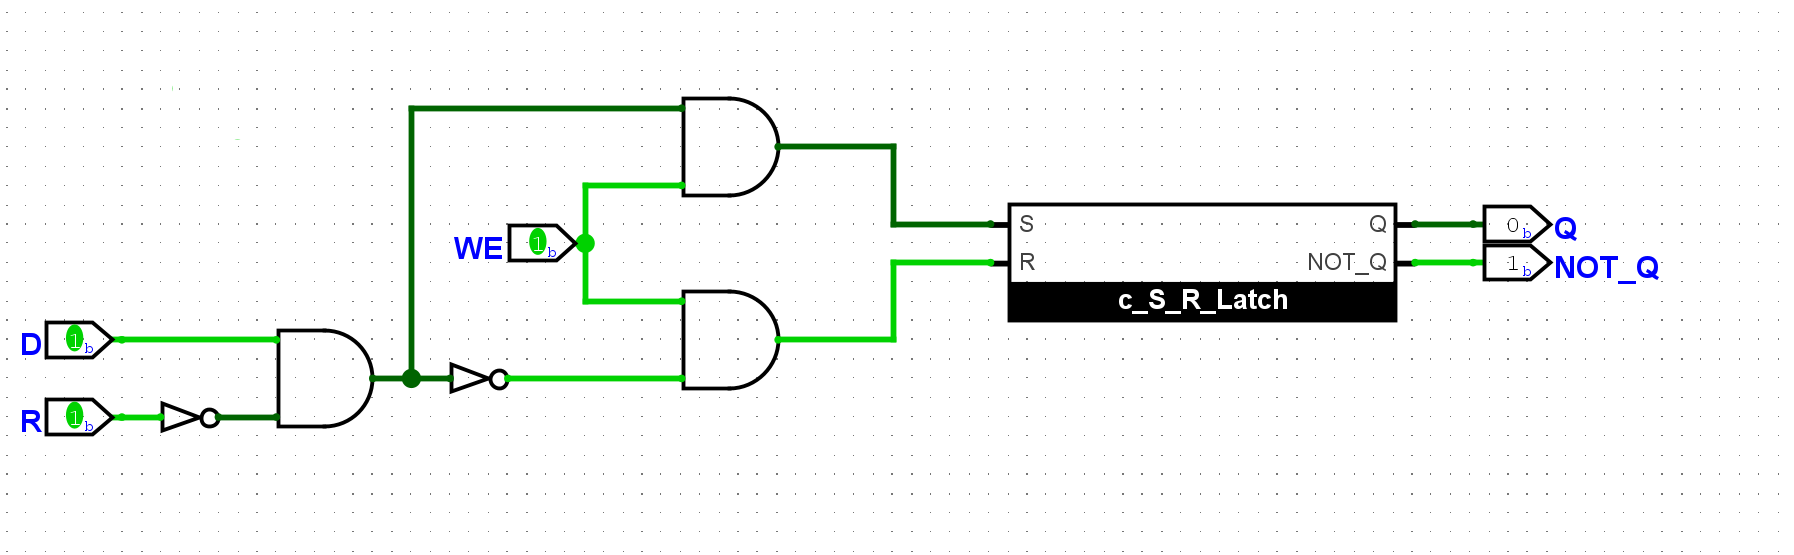
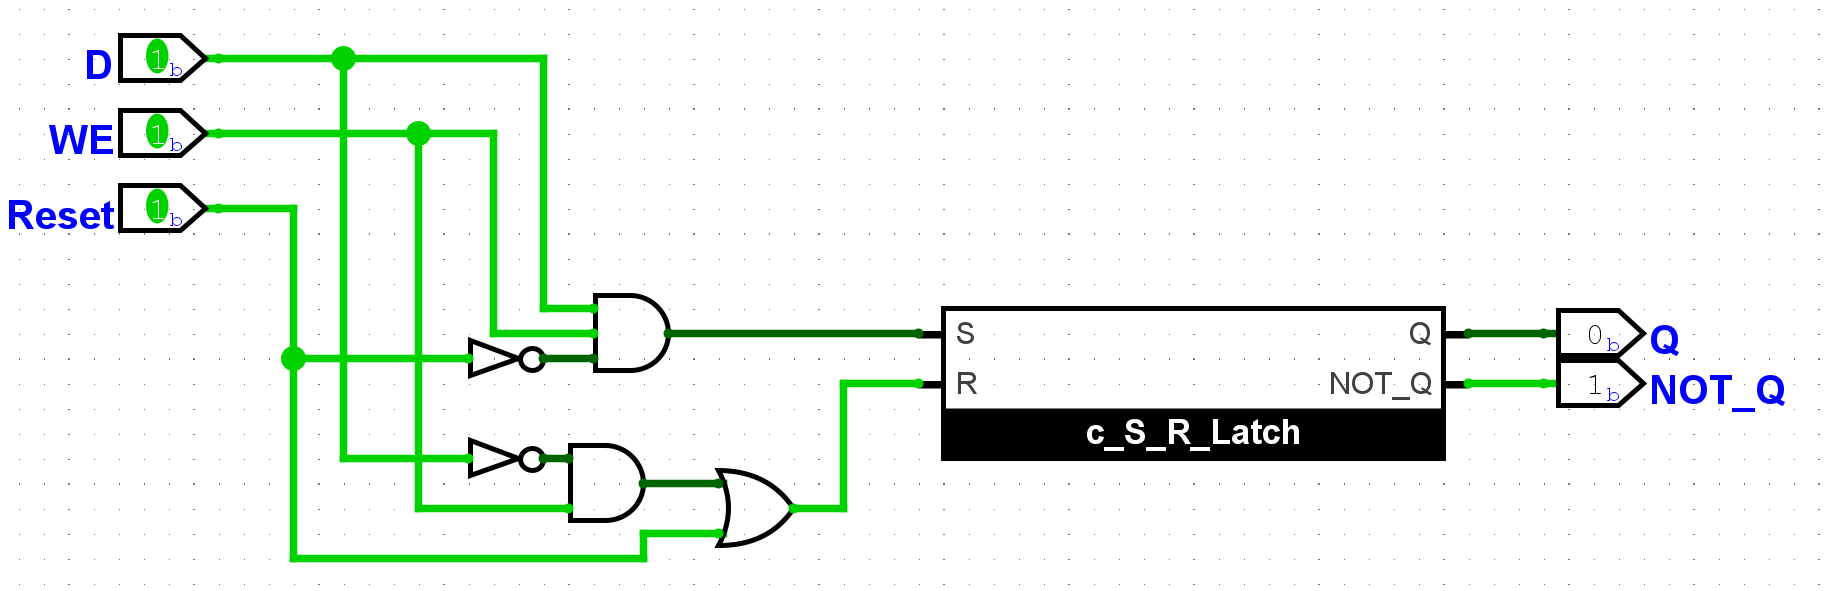
Site updated: 2026-01-13 22:48:01

Changed region(s): [[0.0, 0.0306, 0.9677, 0.9802], [0.3746, 0.245, 0.4994, 0.3982]]

diff --git a/2026/01/05/一生一芯F3/index.html b/2026/01/05/一生一芯F3/index.html
@@ -45,8 +45,13 @@
 <meta property="og:image" content="http://example.com/images/%E4%B8%80%E7%94%9F%E4%B8%80%E8%8A%AFF3/SR%E9%94%81%E5%AD%98%E5%99%A8.png">
 <meta property="og:image" content="http://example.com/images/%E4%B8%80%E7%94%9F%E4%B8%80%E8%8A%AFF3/D%E9%94%81%E5%AD%98%E5%99%A8.png">
 <meta property="og:image" content="http://example.com/images/%E4%B8%80%E7%94%9F%E4%B8%80%E8%8A%AFF3/%E5%B8%A6%E5%A4%8D%E4%BD%8D%E7%9A%84D%E9%94%81%E5%AD%98%E5%99%A8.png">
+<meta property="og:image" content="http://example.com/images/%E4%B8%80%E7%94%9F%E4%B8%80%E8%8A%AFF3/%E7%94%A8D%E9%94%81%E5%AD%98%E5%99%A8%E5%AE%9E%E7%8E%B0%E4%BD%8D%E7%BF%BB%E8%BD%AC%E5%8A%9F%E8%83%BD.png">
+<meta property="og:image" content="http://example.com/images/%E4%B8%80%E7%94%9F%E4%B8%80%E8%8A%AFF3/D%E8%A7%A6%E5%8F%91%E5%99%A8.png">
+<meta property="og:image" content="http://example.com/images/%E4%B8%80%E7%94%9F%E4%B8%80%E8%8A%AFF3/%E5%B8%A6%E5%A4%8D%E4%BD%8D%E5%8A%9F%E8%83%BD%E7%9A%84D%E8%A7%A6%E5%8F%91%E5%99%A8.png">
+<meta property="og:image" content="http://example.com/images/%E4%B8%80%E7%94%9F%E4%B8%80%E8%8A%AFF3/%E7%94%A8D%E8%A7%A6%E5%8F%91%E5%99%A8%E5%AE%9E%E7%8E%B0%E4%BD%8D%E7%BF%BB%E8%BD%AC%E5%8A%9F%E8%83%BD.png">
+<meta property="og:image" content="http://example.com/images/%E4%B8%80%E7%94%9F%E4%B8%80%E8%8A%AFF3/%E5%B8%A6%E4%BD%BF%E8%83%BD%E7%AB%AF%E7%9A%84D%E8%A7%A6%E5%8F%91%E5%99%A8.png">
 <meta property="article:published_time" content="2026-01-05T07:26:02.000Z">
-<meta property="article:modified_time" content="2026-01-12T15:05:46.134Z">
+<meta property="article:modified_time" content="2026-01-13T14:45:54.682Z">
 <meta property="article:author" content="Nyuudoukumo">
 <meta name="twitter:card" content="summary">
 <meta name="twitter:image" content="http://example.com/images/%E4%B8%80%E7%94%9F%E4%B8%80%E8%8A%AFF3/%E5%88%86%E6%9E%90%E9%97%A8%E7%94%B5%E8%B7%AF.png">
@@ -267,7 +272,7 @@ mjx-container[display="true"] + br {
     
     
       <div id="toc">
-        <ol class="toc"><li class="toc-item toc-level-2"><a class="toc-link" href="#%E5%88%86%E6%9E%90%E9%97%A8%E7%94%B5%E8%B7%AF"><span class="toc-number">1.</span> <span class="toc-text">分析门电路</span></a></li><li class="toc-item toc-level-2"><a class="toc-link" href="#%E6%88%96%E9%97%A8%E7%9A%84%E6%99%B6%E4%BD%93%E7%AE%A1%E7%BB%93%E6%9E%84"><span class="toc-number">2.</span> <span class="toc-text">或门的晶体管结构</span></a></li><li class="toc-item toc-level-2"><a class="toc-link" href="#%E5%AF%B9%E6%AF%94%E4%B8%A4%E7%A7%8D%E5%AE%9E%E7%8E%B0%E7%9A%84%E6%99%B6%E4%BD%93%E7%AE%A1%E6%89%80%E9%9C%80%E8%A6%81%E7%9A%84%E6%95%B0%E9%87%8F"><span class="toc-number">3.</span> <span class="toc-text">对比两种实现的晶体管所需要的数量</span></a></li><li class="toc-item toc-level-2"><a class="toc-link" href="#%E7%94%A8%E5%85%B6%E4%BB%96%E9%97%A8%E7%94%B5%E8%B7%AF%E6%90%AD%E5%BB%BA%E5%BC%82%E6%88%96%E9%97%A8"><span class="toc-number">4.</span> <span class="toc-text">用其他门电路搭建异或门</span></a></li><li class="toc-item toc-level-2"><a class="toc-link" href="#%E8%AE%BE%E8%AE%A1%E5%90%8C%E6%88%96%E9%97%A8"><span class="toc-number">5.</span> <span class="toc-text">设计同或门</span></a></li><li class="toc-item toc-level-2"><a class="toc-link" href="#%E6%90%AD%E5%BB%BA2-4%E8%AF%91%E7%A0%81%E5%99%A8"><span class="toc-number">6.</span> <span class="toc-text">搭建2-4译码器</span></a></li><li class="toc-item toc-level-2"><a class="toc-link" href="#Logisim%E4%B8%AD%E7%9A%84%E5%AD%90%E7%94%B5%E8%B7%AF%E5%8A%9F%E8%83%BD"><span class="toc-number">7.</span> <span class="toc-text">Logisim中的子电路功能</span></a></li><li class="toc-item toc-level-2"><a class="toc-link" href="#%E8%AF%91%E7%A0%81%E5%99%A8%E7%9A%84%E6%8B%93%E5%B1%95"><span class="toc-number">8.</span> <span class="toc-text">译码器的拓展</span></a></li><li class="toc-item toc-level-2"><a class="toc-link" href="#%E6%90%AD%E5%BB%BA%E4%B8%83%E6%AE%B5%E6%95%B0%E7%A0%81%E7%AE%A1%E8%AF%91%E7%A0%81%E5%99%A8"><span class="toc-number">9.</span> <span class="toc-text">搭建七段数码管译码器</span></a></li><li class="toc-item toc-level-2"><a class="toc-link" href="#%E6%90%AD%E5%BB%BA%E4%B8%83%E6%AE%B5%E6%95%B0%E7%A0%81%E7%AE%A1%E8%AF%91%E7%A0%81%E5%99%A8-2"><span class="toc-number">10.</span> <span class="toc-text">搭建七段数码管译码器(2)</span></a></li><li class="toc-item toc-level-2"><a class="toc-link" href="#%E6%90%AD%E5%BB%BA%E7%BC%96%E7%A0%81%E5%99%A8"><span class="toc-number">11.</span> <span class="toc-text">搭建编码器</span></a></li><li class="toc-item toc-level-2"><a class="toc-link" href="#%E6%90%AD%E5%BB%BA4-2%E4%BC%98%E5%85%88%E7%BC%96%E7%A0%81%E5%99%A8"><span class="toc-number">12.</span> <span class="toc-text">搭建4-2优先编码器</span></a></li><li class="toc-item toc-level-2"><a class="toc-link" href="#%E6%90%AD%E5%BB%BA1%E4%BD%8D2%E9%80%891%E9%80%89%E6%8B%A9%E5%99%A8"><span class="toc-number">13.</span> <span class="toc-text">搭建1位2选1选择器</span></a></li><li class="toc-item toc-level-2"><a class="toc-link" href="#%E6%90%AD%E5%BB%BA3%E4%BD%8D4%E9%80%891%E9%80%89%E6%8B%A9%E5%99%A8"><span class="toc-number">14.</span> <span class="toc-text">搭建3位4选1选择器</span></a></li><li class="toc-item toc-level-2"><a class="toc-link" href="#%E6%90%AD%E5%BB%BA%E5%8F%AF%E5%88%87%E6%8D%A2%E8%BF%9B%E4%BD%8D%E8%AE%A1%E6%95%B0%E5%88%B6%E7%9A%84%E4%B8%83%E6%AE%B5%E6%95%B0%E7%A0%81%E7%AE%A1"><span class="toc-number">15.</span> <span class="toc-text">搭建可切换进位计数制的七段数码管</span></a></li><li class="toc-item toc-level-2"><a class="toc-link" href="#%E6%90%AD%E5%BB%BA%E6%AF%94%E8%BE%83%E5%99%A8"><span class="toc-number">16.</span> <span class="toc-text">搭建比较器</span></a></li><li class="toc-item toc-level-2"><a class="toc-link" href="#%E6%90%AD%E5%BB%BA1%E4%BD%8D%E5%85%A8%E5%8A%A0%E5%99%A8"><span class="toc-number">17.</span> <span class="toc-text">搭建1位全加器</span></a></li><li class="toc-item toc-level-2"><a class="toc-link" href="#%E6%90%AD%E5%BB%BA4%E4%BD%8D%E5%8A%A0%E6%B3%95%E5%99%A8"><span class="toc-number">18.</span> <span class="toc-text">搭建4位加法器</span></a></li><li class="toc-item toc-level-2"><a class="toc-link" href="#%E6%90%AD%E5%BB%BA4%E4%BD%8D%E5%87%8F%E6%B3%95%E5%99%A8"><span class="toc-number">19.</span> <span class="toc-text">搭建4位减法器</span></a></li><li class="toc-item toc-level-2"><a class="toc-link" href="#%E6%90%AD%E5%BB%BA4%E4%BD%8D%E5%8E%9F%E7%A0%81%E5%8A%A0%E6%B3%95%E5%99%A8"><span class="toc-number">20.</span> <span class="toc-text">搭建4位原码加法器</span></a></li><li class="toc-item toc-level-2"><a class="toc-link" href="#%E6%90%AD%E5%BB%BA4%E4%BD%8D%E5%8F%8D%E7%A0%81%E5%8A%A0%E6%B3%95%E5%99%A8"><span class="toc-number">21.</span> <span class="toc-text">搭建4位反码加法器</span></a></li><li class="toc-item toc-level-2"><a class="toc-link" href="#%E6%A3%80%E6%B5%8B%E8%A1%A5%E7%A0%81%E5%8A%A0%E6%B3%95%E6%98%AF%E5%90%A6%E5%8F%91%E7%94%9F%E6%BA%A2%E5%87%BA"><span class="toc-number">22.</span> <span class="toc-text">检测补码加法是否发生溢出</span></a></li><li class="toc-item toc-level-2"><a class="toc-link" href="#%E6%90%AD%E5%BB%BASR%E9%94%81%E5%AD%98%E5%99%A8"><span class="toc-number">23.</span> <span class="toc-text">搭建SR锁存器</span></a></li><li class="toc-item toc-level-2"><a class="toc-link" href="#%E5%88%86%E6%9E%90D%E9%94%81%E5%AD%98%E5%99%A8%E7%9A%84%E8%A1%8C%E4%B8%BA"><span class="toc-number">24.</span> <span class="toc-text">分析D锁存器的行为</span></a></li><li class="toc-item toc-level-2"><a class="toc-link" href="#%E6%90%AD%E5%BB%BAD%E9%94%81%E5%AD%98%E5%99%A8"><span class="toc-number">25.</span> <span class="toc-text">搭建D锁存器</span></a></li><li class="toc-item toc-level-2"><a class="toc-link" href="#%E6%90%AD%E5%BB%BA%E5%B8%A6%E5%A4%8D%E4%BD%8D%E5%8A%9F%E8%83%BD%E7%9A%84D%E9%94%81%E5%AD%98%E5%99%A8"><span class="toc-number">26.</span> <span class="toc-text">搭建带复位功能的D锁存器</span></a></li></ol>
+        <ol class="toc"><li class="toc-item toc-level-2"><a class="toc-link" href="#%E5%88%86%E6%9E%90%E9%97%A8%E7%94%B5%E8%B7%AF"><span class="toc-number">1.</span> <span class="toc-text">分析门电路</span></a></li><li class="toc-item toc-level-2"><a class="toc-link" href="#%E6%88%96%E9%97%A8%E7%9A%84%E6%99%B6%E4%BD%93%E7%AE%A1%E7%BB%93%E6%9E%84"><span class="toc-number">2.</span> <span class="toc-text">或门的晶体管结构</span></a></li><li class="toc-item toc-level-2"><a class="toc-link" href="#%E5%AF%B9%E6%AF%94%E4%B8%A4%E7%A7%8D%E5%AE%9E%E7%8E%B0%E7%9A%84%E6%99%B6%E4%BD%93%E7%AE%A1%E6%89%80%E9%9C%80%E8%A6%81%E7%9A%84%E6%95%B0%E9%87%8F"><span class="toc-number">3.</span> <span class="toc-text">对比两种实现的晶体管所需要的数量</span></a></li><li class="toc-item toc-level-2"><a class="toc-link" href="#%E7%94%A8%E5%85%B6%E4%BB%96%E9%97%A8%E7%94%B5%E8%B7%AF%E6%90%AD%E5%BB%BA%E5%BC%82%E6%88%96%E9%97%A8"><span class="toc-number">4.</span> <span class="toc-text">用其他门电路搭建异或门</span></a></li><li class="toc-item toc-level-2"><a class="toc-link" href="#%E8%AE%BE%E8%AE%A1%E5%90%8C%E6%88%96%E9%97%A8"><span class="toc-number">5.</span> <span class="toc-text">设计同或门</span></a></li><li class="toc-item toc-level-2"><a class="toc-link" href="#%E6%90%AD%E5%BB%BA2-4%E8%AF%91%E7%A0%81%E5%99%A8"><span class="toc-number">6.</span> <span class="toc-text">搭建2-4译码器</span></a></li><li class="toc-item toc-level-2"><a class="toc-link" href="#Logisim%E4%B8%AD%E7%9A%84%E5%AD%90%E7%94%B5%E8%B7%AF%E5%8A%9F%E8%83%BD"><span class="toc-number">7.</span> <span class="toc-text">Logisim中的子电路功能</span></a></li><li class="toc-item toc-level-2"><a class="toc-link" href="#%E8%AF%91%E7%A0%81%E5%99%A8%E7%9A%84%E6%8B%93%E5%B1%95"><span class="toc-number">8.</span> <span class="toc-text">译码器的拓展</span></a></li><li class="toc-item toc-level-2"><a class="toc-link" href="#%E6%90%AD%E5%BB%BA%E4%B8%83%E6%AE%B5%E6%95%B0%E7%A0%81%E7%AE%A1%E8%AF%91%E7%A0%81%E5%99%A8"><span class="toc-number">9.</span> <span class="toc-text">搭建七段数码管译码器</span></a></li><li class="toc-item toc-level-2"><a class="toc-link" href="#%E6%90%AD%E5%BB%BA%E4%B8%83%E6%AE%B5%E6%95%B0%E7%A0%81%E7%AE%A1%E8%AF%91%E7%A0%81%E5%99%A8-2"><span class="toc-number">10.</span> <span class="toc-text">搭建七段数码管译码器(2)</span></a></li><li class="toc-item toc-level-2"><a class="toc-link" href="#%E6%90%AD%E5%BB%BA%E7%BC%96%E7%A0%81%E5%99%A8"><span class="toc-number">11.</span> <span class="toc-text">搭建编码器</span></a></li><li class="toc-item toc-level-2"><a class="toc-link" href="#%E6%90%AD%E5%BB%BA4-2%E4%BC%98%E5%85%88%E7%BC%96%E7%A0%81%E5%99%A8"><span class="toc-number">12.</span> <span class="toc-text">搭建4-2优先编码器</span></a></li><li class="toc-item toc-level-2"><a class="toc-link" href="#%E6%90%AD%E5%BB%BA1%E4%BD%8D2%E9%80%891%E9%80%89%E6%8B%A9%E5%99%A8"><span class="toc-number">13.</span> <span class="toc-text">搭建1位2选1选择器</span></a></li><li class="toc-item toc-level-2"><a class="toc-link" href="#%E6%90%AD%E5%BB%BA3%E4%BD%8D4%E9%80%891%E9%80%89%E6%8B%A9%E5%99%A8"><span class="toc-number">14.</span> <span class="toc-text">搭建3位4选1选择器</span></a></li><li class="toc-item toc-level-2"><a class="toc-link" href="#%E6%90%AD%E5%BB%BA%E5%8F%AF%E5%88%87%E6%8D%A2%E8%BF%9B%E4%BD%8D%E8%AE%A1%E6%95%B0%E5%88%B6%E7%9A%84%E4%B8%83%E6%AE%B5%E6%95%B0%E7%A0%81%E7%AE%A1"><span class="toc-number">15.</span> <span class="toc-text">搭建可切换进位计数制的七段数码管</span></a></li><li class="toc-item toc-level-2"><a class="toc-link" href="#%E6%90%AD%E5%BB%BA%E6%AF%94%E8%BE%83%E5%99%A8"><span class="toc-number">16.</span> <span class="toc-text">搭建比较器</span></a></li><li class="toc-item toc-level-2"><a class="toc-link" href="#%E6%90%AD%E5%BB%BA1%E4%BD%8D%E5%85%A8%E5%8A%A0%E5%99%A8"><span class="toc-number">17.</span> <span class="toc-text">搭建1位全加器</span></a></li><li class="toc-item toc-level-2"><a class="toc-link" href="#%E6%90%AD%E5%BB%BA4%E4%BD%8D%E5%8A%A0%E6%B3%95%E5%99%A8"><span class="toc-number">18.</span> <span class="toc-text">搭建4位加法器</span></a></li><li class="toc-item toc-level-2"><a class="toc-link" href="#%E6%90%AD%E5%BB%BA4%E4%BD%8D%E5%87%8F%E6%B3%95%E5%99%A8"><span class="toc-number">19.</span> <span class="toc-text">搭建4位减法器</span></a></li><li class="toc-item toc-level-2"><a class="toc-link" href="#%E6%90%AD%E5%BB%BA4%E4%BD%8D%E5%8E%9F%E7%A0%81%E5%8A%A0%E6%B3%95%E5%99%A8"><span class="toc-number">20.</span> <span class="toc-text">搭建4位原码加法器</span></a></li><li class="toc-item toc-level-2"><a class="toc-link" href="#%E6%90%AD%E5%BB%BA4%E4%BD%8D%E5%8F%8D%E7%A0%81%E5%8A%A0%E6%B3%95%E5%99%A8"><span class="toc-number">21.</span> <span class="toc-text">搭建4位反码加法器</span></a></li><li class="toc-item toc-level-2"><a class="toc-link" href="#%E6%A3%80%E6%B5%8B%E8%A1%A5%E7%A0%81%E5%8A%A0%E6%B3%95%E6%98%AF%E5%90%A6%E5%8F%91%E7%94%9F%E6%BA%A2%E5%87%BA"><span class="toc-number">22.</span> <span class="toc-text">检测补码加法是否发生溢出</span></a></li><li class="toc-item toc-level-2"><a class="toc-link" href="#%E6%90%AD%E5%BB%BASR%E9%94%81%E5%AD%98%E5%99%A8"><span class="toc-number">23.</span> <span class="toc-text">搭建SR锁存器</span></a></li><li class="toc-item toc-level-2"><a class="toc-link" href="#%E5%88%86%E6%9E%90D%E9%94%81%E5%AD%98%E5%99%A8%E7%9A%84%E8%A1%8C%E4%B8%BA"><span class="toc-number">24.</span> <span class="toc-text">分析D锁存器的行为</span></a></li><li class="toc-item toc-level-2"><a class="toc-link" href="#%E6%90%AD%E5%BB%BAD%E9%94%81%E5%AD%98%E5%99%A8"><span class="toc-number">25.</span> <span class="toc-text">搭建D锁存器</span></a></li><li class="toc-item toc-level-2"><a class="toc-link" href="#%E6%90%AD%E5%BB%BA%E5%B8%A6%E5%A4%8D%E4%BD%8D%E5%8A%9F%E8%83%BD%E7%9A%84D%E9%94%81%E5%AD%98%E5%99%A8"><span class="toc-number">26.</span> <span class="toc-text">搭建带复位功能的D锁存器</span></a></li><li class="toc-item toc-level-2"><a class="toc-link" href="#%E7%94%A8D%E9%94%81%E5%AD%98%E5%99%A8%E5%AE%9E%E7%8E%B0%E4%BD%8D%E7%BF%BB%E8%BD%AC%E5%8A%9F%E8%83%BD"><span class="toc-number">27.</span> <span class="toc-text">用D锁存器实现位翻转功能</span></a></li><li class="toc-item toc-level-2"><a class="toc-link" href="#%E6%90%AD%E5%BB%BAD%E8%A7%A6%E5%8F%91%E5%99%A8"><span class="toc-number">28.</span> <span class="toc-text">搭建D触发器</span></a></li><li class="toc-item toc-level-2"><a class="toc-link" href="#%E6%90%AD%E5%BB%BA%E5%B8%A6%E5%A4%8D%E4%BD%8D%E5%8A%9F%E8%83%BD%E7%9A%84D%E8%A7%A6%E5%8F%91%E5%99%A8"><span class="toc-number">29.</span> <span class="toc-text">搭建带复位功能的D触发器</span></a></li><li class="toc-item toc-level-2"><a class="toc-link" href="#%E7%94%A8D%E8%A7%A6%E5%8F%91%E5%99%A8%E5%AE%9E%E7%8E%B0%E4%BD%8D%E7%BF%BB%E8%BD%AC%E5%8A%9F%E8%83%BD"><span class="toc-number">30.</span> <span class="toc-text">用D触发器实现位翻转功能</span></a></li><li class="toc-item toc-level-2"><a class="toc-link" href="#%E6%90%AD%E5%BB%BA%E5%B8%A6%E4%BD%BF%E8%83%BD%E7%AB%AF%E7%9A%84D%E8%A7%A6%E5%8F%91%E5%99%A8"><span class="toc-number">31.</span> <span class="toc-text">搭建带使能端的D触发器</span></a></li></ol>
       </div>
     
   </span>
@@ -1017,7 +1022,124 @@ e|   |c
 <div class="callout-title-inner">题目</div>
 </div>
 <div class="callout-content"><p>尝试为D锁存器添加一个用于复位的输入端和复位功能. 当复位信号有效时, D锁存器中存放的值将变为<code>0</code>.</p>
-</div></div><p><img src="/images/%E4%B8%80%E7%94%9F%E4%B8%80%E8%8A%AFF3/%E5%B8%A6%E5%A4%8D%E4%BD%8D%E7%9A%84D%E9%94%81%E5%AD%98%E5%99%A8.png" alt="带复位的D锁存器.png"></p>
+</div></div><p>复位信号<code>Reset</code>，输入<code>D</code>，使能端<code>WE</code>，以及<code>S</code>、<code>R</code>的真值表如下所示：</p>
+<table>
+<thead>
+<tr>
+<th>Reset</th>
+<th>D</th>
+<th>WE</th>
+<th></th>
+<th>S</th>
+<th>R</th>
+</tr>
+</thead>
+<tbody>
+<tr>
+<td>0</td>
+<td>0</td>
+<td>0</td>
+<td></td>
+<td>0</td>
+<td>0</td>
+</tr>
+<tr>
+<td>0</td>
+<td>0</td>
+<td>1</td>
+<td></td>
+<td>0</td>
+<td>1</td>
+</tr>
+<tr>
+<td>0</td>
+<td>1</td>
+<td>0</td>
+<td></td>
+<td>0</td>
+<td>0</td>
+</tr>
+<tr>
+<td>0</td>
+<td>1</td>
+<td>1</td>
+<td></td>
+<td>1</td>
+<td>0</td>
+</tr>
+<tr>
+<td>1</td>
+<td>x</td>
+<td>x</td>
+<td></td>
+<td>0</td>
+<td>1</td>
+</tr>
+</tbody>
+</table>
+<p><img src="/images/%E4%B8%80%E7%94%9F%E4%B8%80%E8%8A%AFF3/%E5%B8%A6%E5%A4%8D%E4%BD%8D%E7%9A%84D%E9%94%81%E5%AD%98%E5%99%A8.png" alt="带复位的D锁存器.png"></p>
+<h2 id="用D锁存器实现位翻转功能">用D锁存器实现位翻转功能</h2>
+
+<div class="callout" data-callout="题目">
+<div class="callout-title">
+<div class="callout-title-icon">
+<svg xmlns="http://www.w3.org/2000/svg" width="24" height="24" viewBox="0 0 24 24" fill="none" stroke="currentColor" stroke-width="2" stroke-linecap="round" stroke-linejoin="round" class="lucide lucide-pencil"><path d="M17 3a2.85 2.83 0 1 1 4 4L7.5 20.5 2 22l1.5-5.5Z"></path><path d="m15 5 4 4"></path></svg>
+</div>
+<div class="callout-title-inner">题目</div>
+</div>
+<div class="callout-content"><p>实例化一个带复位功能的D锁存器, 并将其输出取反后作为输入. 我们预期看到D锁存器的输出将在<code>0</code>和<code>1</code>之间反复变化, 但你应该在仿真过程中看到<code>Oscillation apparent</code>的信息, 请分析原因.</p>
+</div></div><p><img src="/images/%E4%B8%80%E7%94%9F%E4%B8%80%E8%8A%AFF3/%E7%94%A8D%E9%94%81%E5%AD%98%E5%99%A8%E5%AE%9E%E7%8E%B0%E4%BD%8D%E7%BF%BB%E8%BD%AC%E5%8A%9F%E8%83%BD.png" alt="用D锁存器实现位翻转功能.png"></p>
+<p>如图所示，将复位开关关闭后，出现<code>Oscillation apparent</code>。<br>
+因为在使能期间，输入<code>D</code>随时能传到<code>Q</code>，因此当<code>D</code>变反后，<code>Q</code>也会立刻变反，导致<code>D</code>和<code>Q</code>在使能期间高速切换状态，仿真器无法反应这种高速变化，因此出现<code>Oscillation apparent</code>。</p>
+<h2 id="搭建D触发器">搭建D触发器</h2>
+
+<div class="callout" data-callout="题目">
+<div class="callout-title">
+<div class="callout-title-icon">
+<svg xmlns="http://www.w3.org/2000/svg" width="24" height="24" viewBox="0 0 24 24" fill="none" stroke="currentColor" stroke-width="2" stroke-linecap="round" stroke-linejoin="round" class="lucide lucide-pencil"><path d="M17 3a2.85 2.83 0 1 1 4 4L7.5 20.5 2 22l1.5-5.5Z"></path><path d="m15 5 4 4"></path></svg>
+</div>
+<div class="callout-title-inner">题目</div>
+</div>
+<div class="callout-content"><p>尝试在Logisim中通过门电路搭建一个D触发器. 搭建后, 将时钟端口与一个按钮相连, 按钮的按下和释放分别会产生高低电平, 因此点击一次按钮可产生一个脉冲, 以此来充当时钟信号. 尝试长按按钮, 来观察主从式D触发器的工作过程.</p>
+</div></div><p>电路如图所示，观察可以发现当按钮按下的瞬间主锁存器的输出被输入到从锁存器。</p>
+<p><img src="/images/%E4%B8%80%E7%94%9F%E4%B8%80%E8%8A%AFF3/D%E8%A7%A6%E5%8F%91%E5%99%A8.png" alt="D触发器.png"></p>
+<h2 id="搭建带复位功能的D触发器">搭建带复位功能的D触发器</h2>
+
+<div class="callout" data-callout="题目">
+<div class="callout-title">
+<div class="callout-title-icon">
+<svg xmlns="http://www.w3.org/2000/svg" width="24" height="24" viewBox="0 0 24 24" fill="none" stroke="currentColor" stroke-width="2" stroke-linecap="round" stroke-linejoin="round" class="lucide lucide-pencil"><path d="M17 3a2.85 2.83 0 1 1 4 4L7.5 20.5 2 22l1.5-5.5Z"></path><path d="m15 5 4 4"></path></svg>
+</div>
+<div class="callout-title-inner">题目</div>
+</div>
+<div class="callout-content"><p>尝试为D触发器添加一个用于复位的输入端和复位功能. 当复位信号有效时, D触发器中存放的值将变为<code>0</code>.</p>
+</div></div><p>通过改变主锁存器的输入来实现，需要等时钟信号下一个上升沿来临时才能复位。<br>
+电路如下图所示：<br>
+<img src="/images/%E4%B8%80%E7%94%9F%E4%B8%80%E8%8A%AFF3/%E5%B8%A6%E5%A4%8D%E4%BD%8D%E5%8A%9F%E8%83%BD%E7%9A%84D%E8%A7%A6%E5%8F%91%E5%99%A8.png" alt="带复位功能的D触发器.png"></p>
+<h2 id="用D触发器实现位翻转功能">用D触发器实现位翻转功能</h2>
+
+<div class="callout" data-callout="题目">
+<div class="callout-title">
+<div class="callout-title-icon">
+<svg xmlns="http://www.w3.org/2000/svg" width="24" height="24" viewBox="0 0 24 24" fill="none" stroke="currentColor" stroke-width="2" stroke-linecap="round" stroke-linejoin="round" class="lucide lucide-pencil"><path d="M17 3a2.85 2.83 0 1 1 4 4L7.5 20.5 2 22l1.5-5.5Z"></path><path d="m15 5 4 4"></path></svg>
+</div>
+<div class="callout-title-inner">题目</div>
+</div>
+<div class="callout-content"><p>实例化一个带复位功能的D触发器, 并将其输出取反后作为输入. 我们预期看到D触发器的输出将在<code>0</code>和<code>1</code>之间反复变化. 尝试和上文D锁存器的结果进行对比.</p>
+</div></div><p>这一次可以顺利进行位翻转，因为D触发器的输出变化频率受到clk输入限制，Logisim可以正常模拟。<br>
+电路如下图所示：<br>
+<img src="/images/%E4%B8%80%E7%94%9F%E4%B8%80%E8%8A%AFF3/%E7%94%A8D%E8%A7%A6%E5%8F%91%E5%99%A8%E5%AE%9E%E7%8E%B0%E4%BD%8D%E7%BF%BB%E8%BD%AC%E5%8A%9F%E8%83%BD.png" alt="用D触发器实现位翻转功能.png"></p>
+<h2 id="搭建带使能端的D触发器">搭建带使能端的D触发器</h2>
+
+<div class="callout" data-callout="题目">
+<div class="callout-title">
+<div class="callout-title-icon">
+<svg xmlns="http://www.w3.org/2000/svg" width="24" height="24" viewBox="0 0 24 24" fill="none" stroke="currentColor" stroke-width="2" stroke-linecap="round" stroke-linejoin="round" class="lucide lucide-pencil"><path d="M17 3a2.85 2.83 0 1 1 4 4L7.5 20.5 2 22l1.5-5.5Z"></path><path d="m15 5 4 4"></path></svg>
+</div>
+<div class="callout-title-inner">题目</div>
+</div>
+<div class="callout-content"><p>尝试在Logisim中通过D触发器和若干电路, 搭建一个带使能端的D触发器. 搭建后, 通过仿真检查你的方案是否正确.</p>
+</div></div><p><img src="/images/%E4%B8%80%E7%94%9F%E4%B8%80%E8%8A%AFF3/%E5%B8%A6%E4%BD%BF%E8%83%BD%E7%AB%AF%E7%9A%84D%E8%A7%A6%E5%8F%91%E5%99%A8.png" alt="带使能端的D触发器.png"></p>
 
   </div>
 </article>
@@ -1045,7 +1167,7 @@ e|   |c
     
     
       <div id="toc-footer" style="display: none">
-        <ol class="toc"><li class="toc-item toc-level-2"><a class="toc-link" href="#%E5%88%86%E6%9E%90%E9%97%A8%E7%94%B5%E8%B7%AF"><span class="toc-number">1.</span> <span class="toc-text">分析门电路</span></a></li><li class="toc-item toc-level-2"><a class="toc-link" href="#%E6%88%96%E9%97%A8%E7%9A%84%E6%99%B6%E4%BD%93%E7%AE%A1%E7%BB%93%E6%9E%84"><span class="toc-number">2.</span> <span class="toc-text">或门的晶体管结构</span></a></li><li class="toc-item toc-level-2"><a class="toc-link" href="#%E5%AF%B9%E6%AF%94%E4%B8%A4%E7%A7%8D%E5%AE%9E%E7%8E%B0%E7%9A%84%E6%99%B6%E4%BD%93%E7%AE%A1%E6%89%80%E9%9C%80%E8%A6%81%E7%9A%84%E6%95%B0%E9%87%8F"><span class="toc-number">3.</span> <span class="toc-text">对比两种实现的晶体管所需要的数量</span></a></li><li class="toc-item toc-level-2"><a class="toc-link" href="#%E7%94%A8%E5%85%B6%E4%BB%96%E9%97%A8%E7%94%B5%E8%B7%AF%E6%90%AD%E5%BB%BA%E5%BC%82%E6%88%96%E9%97%A8"><span class="toc-number">4.</span> <span class="toc-text">用其他门电路搭建异或门</span></a></li><li class="toc-item toc-level-2"><a class="toc-link" href="#%E8%AE%BE%E8%AE%A1%E5%90%8C%E6%88%96%E9%97%A8"><span class="toc-number">5.</span> <span class="toc-text">设计同或门</span></a></li><li class="toc-item toc-level-2"><a class="toc-link" href="#%E6%90%AD%E5%BB%BA2-4%E8%AF%91%E7%A0%81%E5%99%A8"><span class="toc-number">6.</span> <span class="toc-text">搭建2-4译码器</span></a></li><li class="toc-item toc-level-2"><a class="toc-link" href="#Logisim%E4%B8%AD%E7%9A%84%E5%AD%90%E7%94%B5%E8%B7%AF%E5%8A%9F%E8%83%BD"><span class="toc-number">7.</span> <span class="toc-text">Logisim中的子电路功能</span></a></li><li class="toc-item toc-level-2"><a class="toc-link" href="#%E8%AF%91%E7%A0%81%E5%99%A8%E7%9A%84%E6%8B%93%E5%B1%95"><span class="toc-number">8.</span> <span class="toc-text">译码器的拓展</span></a></li><li class="toc-item toc-level-2"><a class="toc-link" href="#%E6%90%AD%E5%BB%BA%E4%B8%83%E6%AE%B5%E6%95%B0%E7%A0%81%E7%AE%A1%E8%AF%91%E7%A0%81%E5%99%A8"><span class="toc-number">9.</span> <span class="toc-text">搭建七段数码管译码器</span></a></li><li class="toc-item toc-level-2"><a class="toc-link" href="#%E6%90%AD%E5%BB%BA%E4%B8%83%E6%AE%B5%E6%95%B0%E7%A0%81%E7%AE%A1%E8%AF%91%E7%A0%81%E5%99%A8-2"><span class="toc-number">10.</span> <span class="toc-text">搭建七段数码管译码器(2)</span></a></li><li class="toc-item toc-level-2"><a class="toc-link" href="#%E6%90%AD%E5%BB%BA%E7%BC%96%E7%A0%81%E5%99%A8"><span class="toc-number">11.</span> <span class="toc-text">搭建编码器</span></a></li><li class="toc-item toc-level-2"><a class="toc-link" href="#%E6%90%AD%E5%BB%BA4-2%E4%BC%98%E5%85%88%E7%BC%96%E7%A0%81%E5%99%A8"><span class="toc-number">12.</span> <span class="toc-text">搭建4-2优先编码器</span></a></li><li class="toc-item toc-level-2"><a class="toc-link" href="#%E6%90%AD%E5%BB%BA1%E4%BD%8D2%E9%80%891%E9%80%89%E6%8B%A9%E5%99%A8"><span class="toc-number">13.</span> <span class="toc-text">搭建1位2选1选择器</span></a></li><li class="toc-item toc-level-2"><a class="toc-link" href="#%E6%90%AD%E5%BB%BA3%E4%BD%8D4%E9%80%891%E9%80%89%E6%8B%A9%E5%99%A8"><span class="toc-number">14.</span> <span class="toc-text">搭建3位4选1选择器</span></a></li><li class="toc-item toc-level-2"><a class="toc-link" href="#%E6%90%AD%E5%BB%BA%E5%8F%AF%E5%88%87%E6%8D%A2%E8%BF%9B%E4%BD%8D%E8%AE%A1%E6%95%B0%E5%88%B6%E7%9A%84%E4%B8%83%E6%AE%B5%E6%95%B0%E7%A0%81%E7%AE%A1"><span class="toc-number">15.</span> <span class="toc-text">搭建可切换进位计数制的七段数码管</span></a></li><li class="toc-item toc-level-2"><a class="toc-link" href="#%E6%90%AD%E5%BB%BA%E6%AF%94%E8%BE%83%E5%99%A8"><span class="toc-number">16.</span> <span class="toc-text">搭建比较器</span></a></li><li class="toc-item toc-level-2"><a class="toc-link" href="#%E6%90%AD%E5%BB%BA1%E4%BD%8D%E5%85%A8%E5%8A%A0%E5%99%A8"><span class="toc-number">17.</span> <span class="toc-text">搭建1位全加器</span></a></li><li class="toc-item toc-level-2"><a class="toc-link" href="#%E6%90%AD%E5%BB%BA4%E4%BD%8D%E5%8A%A0%E6%B3%95%E5%99%A8"><span class="toc-number">18.</span> <span class="toc-text">搭建4位加法器</span></a></li><li class="toc-item toc-level-2"><a class="toc-link" href="#%E6%90%AD%E5%BB%BA4%E4%BD%8D%E5%87%8F%E6%B3%95%E5%99%A8"><span class="toc-number">19.</span> <span class="toc-text">搭建4位减法器</span></a></li><li class="toc-item toc-level-2"><a class="toc-link" href="#%E6%90%AD%E5%BB%BA4%E4%BD%8D%E5%8E%9F%E7%A0%81%E5%8A%A0%E6%B3%95%E5%99%A8"><span class="toc-number">20.</span> <span class="toc-text">搭建4位原码加法器</span></a></li><li class="toc-item toc-level-2"><a class="toc-link" href="#%E6%90%AD%E5%BB%BA4%E4%BD%8D%E5%8F%8D%E7%A0%81%E5%8A%A0%E6%B3%95%E5%99%A8"><span class="toc-number">21.</span> <span class="toc-text">搭建4位反码加法器</span></a></li><li class="toc-item toc-level-2"><a class="toc-link" href="#%E6%A3%80%E6%B5%8B%E8%A1%A5%E7%A0%81%E5%8A%A0%E6%B3%95%E6%98%AF%E5%90%A6%E5%8F%91%E7%94%9F%E6%BA%A2%E5%87%BA"><span class="toc-number">22.</span> <span class="toc-text">检测补码加法是否发生溢出</span></a></li><li class="toc-item toc-level-2"><a class="toc-link" href="#%E6%90%AD%E5%BB%BASR%E9%94%81%E5%AD%98%E5%99%A8"><span class="toc-number">23.</span> <span class="toc-text">搭建SR锁存器</span></a></li><li class="toc-item toc-level-2"><a class="toc-link" href="#%E5%88%86%E6%9E%90D%E9%94%81%E5%AD%98%E5%99%A8%E7%9A%84%E8%A1%8C%E4%B8%BA"><span class="toc-number">24.</span> <span class="toc-text">分析D锁存器的行为</span></a></li><li class="toc-item toc-level-2"><a class="toc-link" href="#%E6%90%AD%E5%BB%BAD%E9%94%81%E5%AD%98%E5%99%A8"><span class="toc-number">25.</span> <span class="toc-text">搭建D锁存器</span></a></li><li class="toc-item toc-level-2"><a class="toc-link" href="#%E6%90%AD%E5%BB%BA%E5%B8%A6%E5%A4%8D%E4%BD%8D%E5%8A%9F%E8%83%BD%E7%9A%84D%E9%94%81%E5%AD%98%E5%99%A8"><span class="toc-number">26.</span> <span class="toc-text">搭建带复位功能的D锁存器</span></a></li></ol>
+        <ol class="toc"><li class="toc-item toc-level-2"><a class="toc-link" href="#%E5%88%86%E6%9E%90%E9%97%A8%E7%94%B5%E8%B7%AF"><span class="toc-number">1.</span> <span class="toc-text">分析门电路</span></a></li><li class="toc-item toc-level-2"><a class="toc-link" href="#%E6%88%96%E9%97%A8%E7%9A%84%E6%99%B6%E4%BD%93%E7%AE%A1%E7%BB%93%E6%9E%84"><span class="toc-number">2.</span> <span class="toc-text">或门的晶体管结构</span></a></li><li class="toc-item toc-level-2"><a class="toc-link" href="#%E5%AF%B9%E6%AF%94%E4%B8%A4%E7%A7%8D%E5%AE%9E%E7%8E%B0%E7%9A%84%E6%99%B6%E4%BD%93%E7%AE%A1%E6%89%80%E9%9C%80%E8%A6%81%E7%9A%84%E6%95%B0%E9%87%8F"><span class="toc-number">3.</span> <span class="toc-text">对比两种实现的晶体管所需要的数量</span></a></li><li class="toc-item toc-level-2"><a class="toc-link" href="#%E7%94%A8%E5%85%B6%E4%BB%96%E9%97%A8%E7%94%B5%E8%B7%AF%E6%90%AD%E5%BB%BA%E5%BC%82%E6%88%96%E9%97%A8"><span class="toc-number">4.</span> <span class="toc-text">用其他门电路搭建异或门</span></a></li><li class="toc-item toc-level-2"><a class="toc-link" href="#%E8%AE%BE%E8%AE%A1%E5%90%8C%E6%88%96%E9%97%A8"><span class="toc-number">5.</span> <span class="toc-text">设计同或门</span></a></li><li class="toc-item toc-level-2"><a class="toc-link" href="#%E6%90%AD%E5%BB%BA2-4%E8%AF%91%E7%A0%81%E5%99%A8"><span class="toc-number">6.</span> <span class="toc-text">搭建2-4译码器</span></a></li><li class="toc-item toc-level-2"><a class="toc-link" href="#Logisim%E4%B8%AD%E7%9A%84%E5%AD%90%E7%94%B5%E8%B7%AF%E5%8A%9F%E8%83%BD"><span class="toc-number">7.</span> <span class="toc-text">Logisim中的子电路功能</span></a></li><li class="toc-item toc-level-2"><a class="toc-link" href="#%E8%AF%91%E7%A0%81%E5%99%A8%E7%9A%84%E6%8B%93%E5%B1%95"><span class="toc-number">8.</span> <span class="toc-text">译码器的拓展</span></a></li><li class="toc-item toc-level-2"><a class="toc-link" href="#%E6%90%AD%E5%BB%BA%E4%B8%83%E6%AE%B5%E6%95%B0%E7%A0%81%E7%AE%A1%E8%AF%91%E7%A0%81%E5%99%A8"><span class="toc-number">9.</span> <span class="toc-text">搭建七段数码管译码器</span></a></li><li class="toc-item toc-level-2"><a class="toc-link" href="#%E6%90%AD%E5%BB%BA%E4%B8%83%E6%AE%B5%E6%95%B0%E7%A0%81%E7%AE%A1%E8%AF%91%E7%A0%81%E5%99%A8-2"><span class="toc-number">10.</span> <span class="toc-text">搭建七段数码管译码器(2)</span></a></li><li class="toc-item toc-level-2"><a class="toc-link" href="#%E6%90%AD%E5%BB%BA%E7%BC%96%E7%A0%81%E5%99%A8"><span class="toc-number">11.</span> <span class="toc-text">搭建编码器</span></a></li><li class="toc-item toc-level-2"><a class="toc-link" href="#%E6%90%AD%E5%BB%BA4-2%E4%BC%98%E5%85%88%E7%BC%96%E7%A0%81%E5%99%A8"><span class="toc-number">12.</span> <span class="toc-text">搭建4-2优先编码器</span></a></li><li class="toc-item toc-level-2"><a class="toc-link" href="#%E6%90%AD%E5%BB%BA1%E4%BD%8D2%E9%80%891%E9%80%89%E6%8B%A9%E5%99%A8"><span class="toc-number">13.</span> <span class="toc-text">搭建1位2选1选择器</span></a></li><li class="toc-item toc-level-2"><a class="toc-link" href="#%E6%90%AD%E5%BB%BA3%E4%BD%8D4%E9%80%891%E9%80%89%E6%8B%A9%E5%99%A8"><span class="toc-number">14.</span> <span class="toc-text">搭建3位4选1选择器</span></a></li><li class="toc-item toc-level-2"><a class="toc-link" href="#%E6%90%AD%E5%BB%BA%E5%8F%AF%E5%88%87%E6%8D%A2%E8%BF%9B%E4%BD%8D%E8%AE%A1%E6%95%B0%E5%88%B6%E7%9A%84%E4%B8%83%E6%AE%B5%E6%95%B0%E7%A0%81%E7%AE%A1"><span class="toc-number">15.</span> <span class="toc-text">搭建可切换进位计数制的七段数码管</span></a></li><li class="toc-item toc-level-2"><a class="toc-link" href="#%E6%90%AD%E5%BB%BA%E6%AF%94%E8%BE%83%E5%99%A8"><span class="toc-number">16.</span> <span class="toc-text">搭建比较器</span></a></li><li class="toc-item toc-level-2"><a class="toc-link" href="#%E6%90%AD%E5%BB%BA1%E4%BD%8D%E5%85%A8%E5%8A%A0%E5%99%A8"><span class="toc-number">17.</span> <span class="toc-text">搭建1位全加器</span></a></li><li class="toc-item toc-level-2"><a class="toc-link" href="#%E6%90%AD%E5%BB%BA4%E4%BD%8D%E5%8A%A0%E6%B3%95%E5%99%A8"><span class="toc-number">18.</span> <span class="toc-text">搭建4位加法器</span></a></li><li class="toc-item toc-level-2"><a class="toc-link" href="#%E6%90%AD%E5%BB%BA4%E4%BD%8D%E5%87%8F%E6%B3%95%E5%99%A8"><span class="toc-number">19.</span> <span class="toc-text">搭建4位减法器</span></a></li><li class="toc-item toc-level-2"><a class="toc-link" href="#%E6%90%AD%E5%BB%BA4%E4%BD%8D%E5%8E%9F%E7%A0%81%E5%8A%A0%E6%B3%95%E5%99%A8"><span class="toc-number">20.</span> <span class="toc-text">搭建4位原码加法器</span></a></li><li class="toc-item toc-level-2"><a class="toc-link" href="#%E6%90%AD%E5%BB%BA4%E4%BD%8D%E5%8F%8D%E7%A0%81%E5%8A%A0%E6%B3%95%E5%99%A8"><span class="toc-number">21.</span> <span class="toc-text">搭建4位反码加法器</span></a></li><li class="toc-item toc-level-2"><a class="toc-link" href="#%E6%A3%80%E6%B5%8B%E8%A1%A5%E7%A0%81%E5%8A%A0%E6%B3%95%E6%98%AF%E5%90%A6%E5%8F%91%E7%94%9F%E6%BA%A2%E5%87%BA"><span class="toc-number">22.</span> <span class="toc-text">检测补码加法是否发生溢出</span></a></li><li class="toc-item toc-level-2"><a class="toc-link" href="#%E6%90%AD%E5%BB%BASR%E9%94%81%E5%AD%98%E5%99%A8"><span class="toc-number">23.</span> <span class="toc-text">搭建SR锁存器</span></a></li><li class="toc-item toc-level-2"><a class="toc-link" href="#%E5%88%86%E6%9E%90D%E9%94%81%E5%AD%98%E5%99%A8%E7%9A%84%E8%A1%8C%E4%B8%BA"><span class="toc-number">24.</span> <span class="toc-text">分析D锁存器的行为</span></a></li><li class="toc-item toc-level-2"><a class="toc-link" href="#%E6%90%AD%E5%BB%BAD%E9%94%81%E5%AD%98%E5%99%A8"><span class="toc-number">25.</span> <span class="toc-text">搭建D锁存器</span></a></li><li class="toc-item toc-level-2"><a class="toc-link" href="#%E6%90%AD%E5%BB%BA%E5%B8%A6%E5%A4%8D%E4%BD%8D%E5%8A%9F%E8%83%BD%E7%9A%84D%E9%94%81%E5%AD%98%E5%99%A8"><span class="toc-number">26.</span> <span class="toc-text">搭建带复位功能的D锁存器</span></a></li><li class="toc-item toc-level-2"><a class="toc-link" href="#%E7%94%A8D%E9%94%81%E5%AD%98%E5%99%A8%E5%AE%9E%E7%8E%B0%E4%BD%8D%E7%BF%BB%E8%BD%AC%E5%8A%9F%E8%83%BD"><span class="toc-number">27.</span> <span class="toc-text">用D锁存器实现位翻转功能</span></a></li><li class="toc-item toc-level-2"><a class="toc-link" href="#%E6%90%AD%E5%BB%BAD%E8%A7%A6%E5%8F%91%E5%99%A8"><span class="toc-number">28.</span> <span class="toc-text">搭建D触发器</span></a></li><li class="toc-item toc-level-2"><a class="toc-link" href="#%E6%90%AD%E5%BB%BA%E5%B8%A6%E5%A4%8D%E4%BD%8D%E5%8A%9F%E8%83%BD%E7%9A%84D%E8%A7%A6%E5%8F%91%E5%99%A8"><span class="toc-number">29.</span> <span class="toc-text">搭建带复位功能的D触发器</span></a></li><li class="toc-item toc-level-2"><a class="toc-link" href="#%E7%94%A8D%E8%A7%A6%E5%8F%91%E5%99%A8%E5%AE%9E%E7%8E%B0%E4%BD%8D%E7%BF%BB%E8%BD%AC%E5%8A%9F%E8%83%BD"><span class="toc-number">30.</span> <span class="toc-text">用D触发器实现位翻转功能</span></a></li><li class="toc-item toc-level-2"><a class="toc-link" href="#%E6%90%AD%E5%BB%BA%E5%B8%A6%E4%BD%BF%E8%83%BD%E7%AB%AF%E7%9A%84D%E8%A7%A6%E5%8F%91%E5%99%A8"><span class="toc-number">31.</span> <span class="toc-text">搭建带使能端的D触发器</span></a></li></ol>
       </div>
     
 
